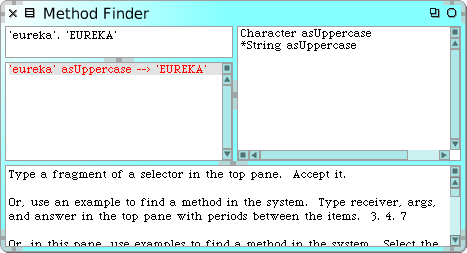
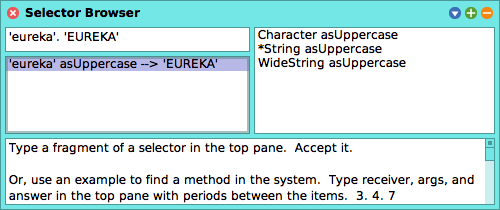
Update figure QuickTour/MethodFinder-example1.png

diff --git a/QuickTour/QuickTour.tex b/QuickTour/QuickTour.tex
@@ -700,6 +700,18 @@ The method finder will suggest a method that does what you want.
 An asterisk at the beginning of a line in the right pane of the method finder indicates that this method is the one that was actually used to obtain the requested result. 
 So, the asterisk in front of \ct{String asUppercase} lets us know that the method \mthind{String}{asUppercase} defined on the class \clsind{String} was executed and returned the result we wanted. The methods that do not have an asterisk are just the other methods that have the same name as the ones that returned the expected result. So \cmind{Character}{asUppercase} was not executed on our example, because \ct{'eureka'} is not a \clsind{Character} object.
 
+%%{SBESqueakPicture writeTo: './figures/MethodFinder-example1.png' frame: #morphs using: [:helper |
+%%	| window inputField hitList |
+%%	window := ToolBuilder open: SelectorBrowser.
+%%	window extent: 500 @ 210.
+%%	inputField := (window rootMorphsAt: window topLeft + 30) first.
+%%	hitList := (window rootMorphsAt: inputField bottomLeft + 30) first.
+%%	helper
+%%		mouseEnter: inputField;
+%%		type: '''eureka''. ''EUREKA''' into: inputField;
+%%		keyStroke: inputField key: $s modifiers: #(cmd).
+%%	helper click: hitList at: hitList topLeft + 10 buttons: #(left)
+%%]}
 \begin{figure}[hbt]
 \ifluluelse
 	{\centerline {\includegraphics[width=0.9\textwidth]{MethodFinder-example1}}}
